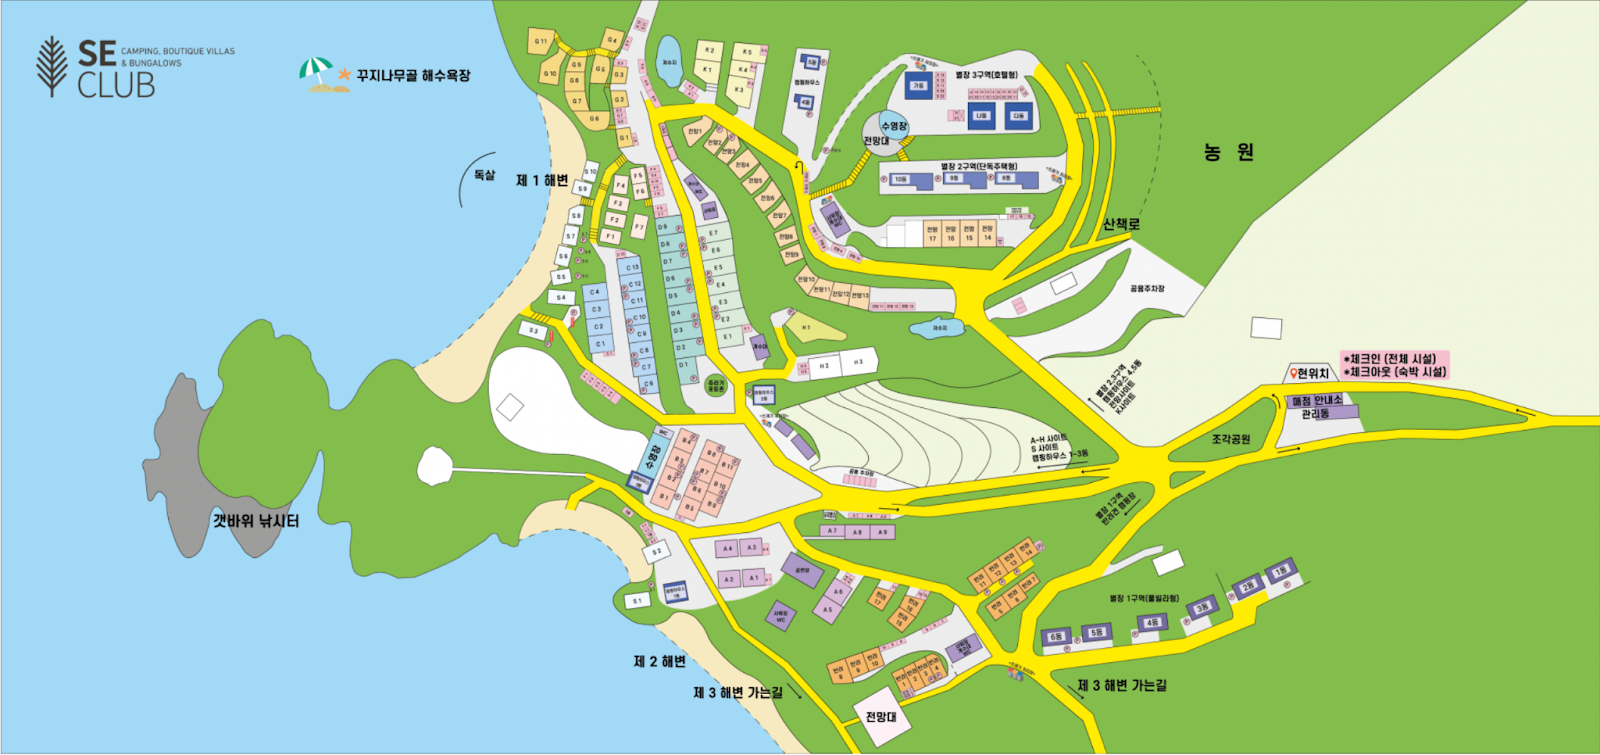
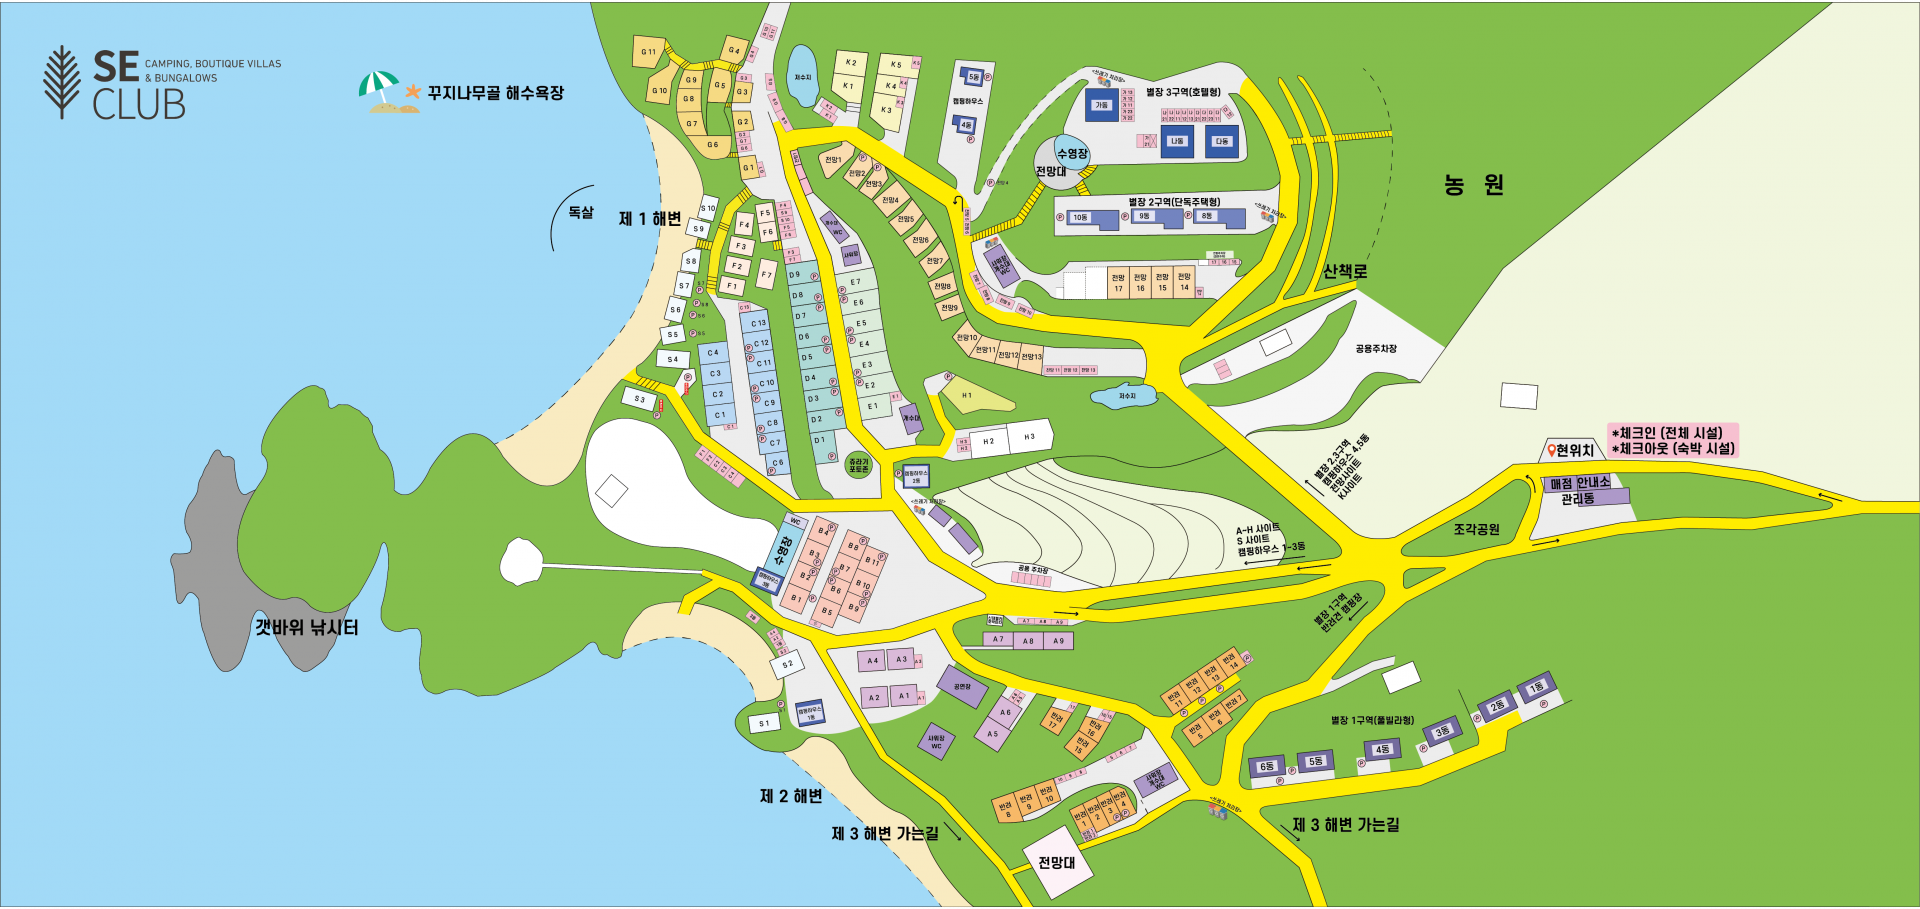
또 수정..

diff --git a/apps/landing/src/const/room-detail/premium-villa-data.tsx b/apps/landing/src/const/room-detail/premium-villa-data.tsx
@@ -12,6 +12,7 @@ export const premiumVillaData: RoomInfo = {
     "/images/room/premium-villa/main-3.jpg", 
     "/images/room/premium-villa/main-4.jpeg", 
     "/images/room/premium-villa/main-5.jpg", 
+    "/images/room/premium-villa/main-6.jpg", 
   ],
   overview: (
     <p>SE CLUB 프리미엄 빌라는 끝없이 펼쳐진 바다와 황홀한 노을이 객실 창문 너머로 펼쳐지는 특별한 휴식처입니다. <span className="text-green-900 font-semibold">실내 주방</span>, <span className="text-green-900 font-semibold">야외 인피니티 풀</span>, <span className="text-green-900 font-semibold">프라이빗 바비큐 공간</span>을 갖춰, 바다, 산, 그리고 별빛이 수놓인 낭만의 순간을 한층 더 완벽하게 즐기실 수 있습니다

diff --git a/apps/landing/src/const/header-items.ts b/apps/landing/src/const/header-items.ts
@@ -10,16 +10,22 @@ export const menuItems: HeaderMenuType[] = [
         href: "/about"
       },
       {
+        name: "오시는길",
+        href: "/about/location"
+      },
+    ]
+  },
+  {
+    title: "갤러리",
+    href: "/about/gallery",
+    items: [
+      {
         name: "사진 갤러리",
         href: "/about/gallery"
       },
       {
         name: "영상 갤러리",
         href: "/about/video"
-      },
-      {
-        name: "오시는길",
-        href: "/about/location"
       },
     ]
   },

diff --git a/apps/landing/src/app/about/video/page.tsx b/apps/landing/src/app/about/video/page.tsx
@@ -13,12 +13,12 @@ type Video = {
 
 // TODO: DB connect
 const videos: Video[] = [
+  { id: "U5SRkqtV04U", title: "자연체험 프로그램" },
   { id: "GWQziHmK9A4", title: "조각공원" },
   { id: "WOpqyDl0XiY", title: "풀빌라" },
   { id: "3UOlYohOUIc", title: "스파빌라" },
   { id: "w96Fl9L4Ink", title: "오션콘도 Standard" },
   { id: "TSwUm6mDlNk", title: "오션콘도 Deluxe" },
-  { id: "U5SRkqtV04U", title: "자연체험 프로그램" },
 ]
 
 export default function VideoGalleryPage() {
